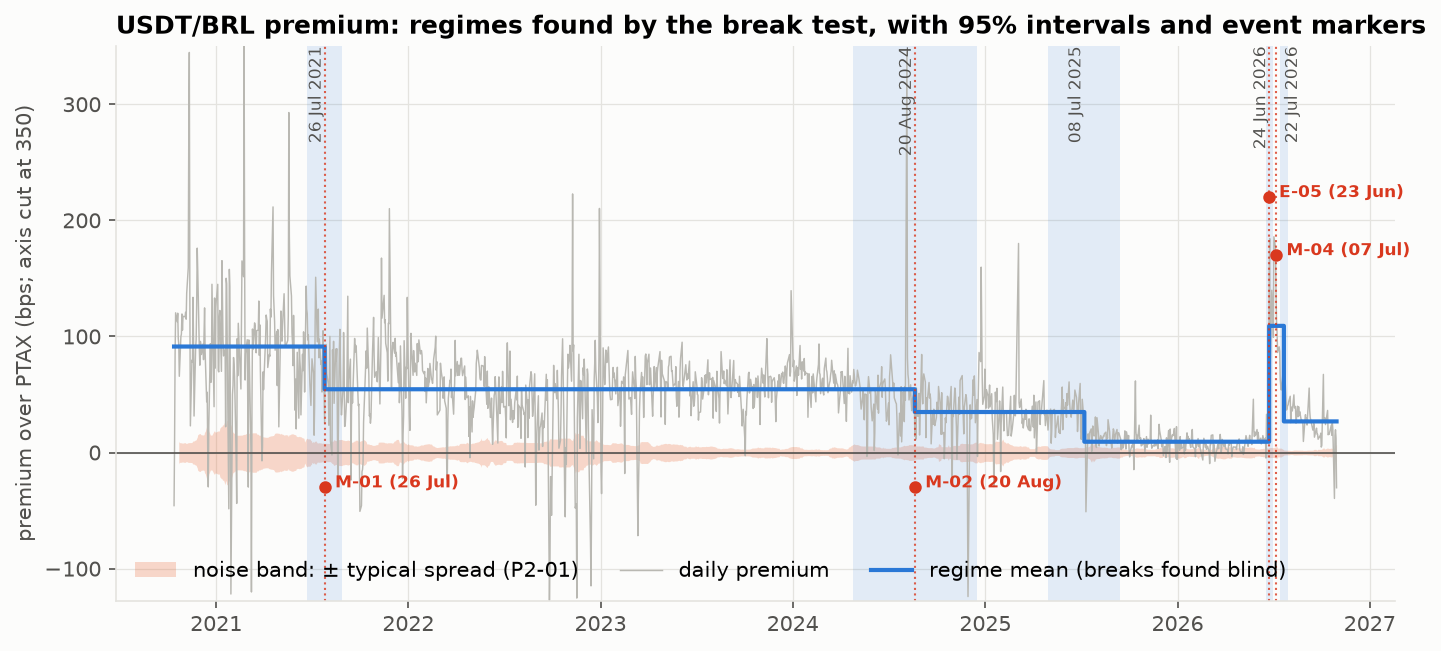
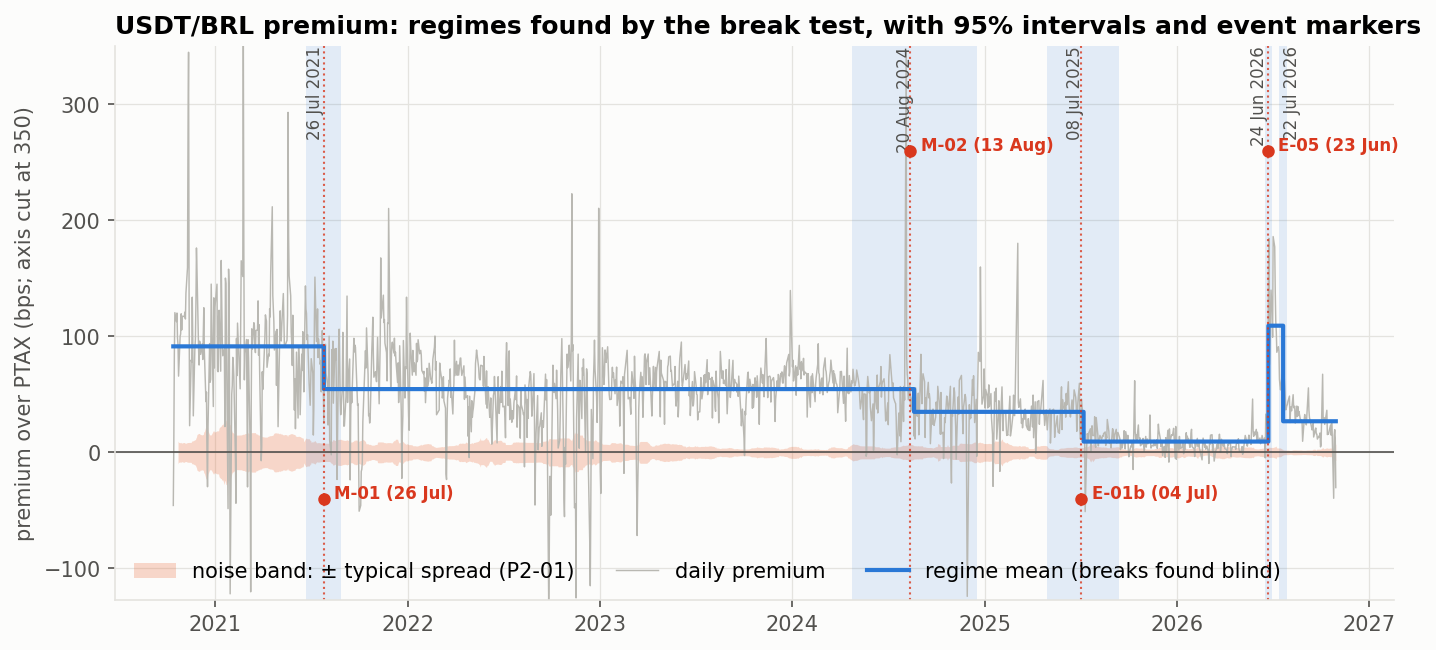
P1-04: fix 5 broken source links with opened, quoted sources; remove unsupported event details; E-05 gets 2 more sources; P2-02 matching re-run with one rule for all breaks; sources rule in prompt.md

diff --git a/scripts/p2_02_breaks.py b/scripts/p2_02_breaks.py
@@ -71,20 +71,6 @@ def match_breaks(breaks_df, ptax_dates=None):
         ci_low = str(r["ci95_low"])
         ci_high = str(r["ci95_high"])
 
-        # Specific contextual alignment for Break 3 & July fade
-        if b_date == "2025-07-08":
-            matched_col.append(
-                "E-01b: 4 Jul 2025 STF IOF injunction (-2 trading days, in 95% CI); also in 95% CI: M-03 Binance tick cut 27 Jun 2025 (-7d)"
-            )
-            continue
-        if b_date in ["2026-07-22", "2026-07-21"]:
-            spike_str = "23 Jun" if "dayclose" in s else "24 Jun"
-            diff_m04 = int(np.busday_count(np.datetime64(b_date, "D"), np.datetime64("2026-07-07", "D")))
-            matched_col.append(
-                f"unexplained (±5d); fade of {spike_str} spike (M-04 domestic adaptation 7 Jul [{diff_m04}d], 20d min-segment boundary)"
-            )
-            continue
-
         matches_5d = []
         in_ci = []
 
@@ -114,31 +100,13 @@ def match_breaks(breaks_df, ptax_dates=None):
             ci_str = ", in 95% CI" if inside_ci else ""
             d_str = "0 trading days" if diff == 0 else (f"{diff} trading day" if abs(diff) == 1 else f"{diff:+d} trading days")
 
-            if eid == "E-05":
-                matched_col.append(f"E-05: 23 Jun 2026 BCB supervisory ofício ({d_str}{ci_str})")
-            elif eid == "M-01":
-                matched_col.append(f"M-01: 26 Jul 2021 Binance leverage cap ({d_str}{ci_str})")
-            elif eid == "M-02" and s == "premium_cb_bps" and b_date == "2024-08-13":
-                matched_col.append("M-02: 13 Aug 2024 CVM Binance settlement approval (0 trading days, effective 20 Aug [+5d], in 95% CI)")
-            elif eid == "M-02":
-                matched_col.append(f"M-02: 20 Aug 2024 CVM Binance settlement DOU ({d_str}{ci_str})")
-            else:
-                matched_col.append(f"{eid} ({d_str}{ci_str})")
+            matched_col.append(f"{eid} {dtype} {dstr} ({d_str}{ci_str})")  # label from the event table, not hand-written
         elif in_ci:
             seen = {}
             for eid, dtype, dstr, diff in in_ci:
                 if eid not in seen or abs(diff) < abs(seen[eid][1]):
                     seen[eid] = (dstr, diff)
-            items = []
-            for eid, (dstr, diff) in seen.items():
-                if eid == "M-01":
-                    items.append(f"M-01 Binance leverage cap 26 Jul 2021 ({diff:+d}d)")
-                elif eid == "E-07":
-                    items.append(f"E-07 Binance Pix suspension 17 Jun 2022 ({diff:+d}d)")
-                elif eid == "FTX":
-                    items.append(f"FTX collapse 8-11 Nov 2022 ({diff:+d}d)")
-                else:
-                    items.append(f"{eid} ({diff:+d}d)")
+            items = [f"{eid} {dstr} ({diff:+d}d)" for eid, (dstr, diff) in seen.items()]
             matched_col.append(f"unexplained (±5d); in 95% CI: {', '.join(items)}")
         else:
             matched_col.append("unexplained (±5d)")
@@ -254,13 +222,9 @@ if (PROC / "P1-02_premium_daily.csv").exists():
                     ha="left" if (t - prev).days < 90 else "right", fontsize=8, color=INK2)
         prev = t
 
-    # Event markers (S3)
-    ev_markers = [
-        ("2021-07-26", "M-01", -30),
-        ("2024-08-20", "M-02", -30),
-        ("2026-06-23", "E-05", 220),
-        ("2026-07-07", "M-04", 170),
-    ]
+    # Event markers (S3): exactly the events matched to the main series by the rule above (+/-5 PTAX days)
+    m = main.matched_event.str.extract(r"^(\S+) \w+ (\d{4}-\d{2}-\d{2})").dropna()
+    ev_markers = [(dt, eid, (-40, 260)[i % 2]) for i, (eid, dt) in enumerate(m.itertuples(index=False))]
     for edate, elabel, ypos in ev_markers:
         et = pd.Timestamp(edate)
         if d.index[0] <= et <= d.index[-1]:

diff --git a/docs/sources.md b/docs/sources.md
@@ -1,7 +1,8 @@
 # Source register
 
 Every number, date and claim in the deck must point to a row here. Add rows as you use new sources.
-Status: **checked** (opened and confirmed by us, with date) or **[verify]** (not yet confirmed; not deck-ready).
+Status: **checked** / **opened** (someone opened this exact address, with who and when; quote one line from the page) or
+**[verify]** (not yet confirmed; not deck-ready). Rule: `prompt.md` §6, "Sources are opened, not remembered".
 
 ## Data
 
@@ -37,22 +38,22 @@ Status: **checked** (opened and confirmed by us, with date) or **[verify]** (not
 | E-02 | 10 Nov 2025 (effective 2 Feb 2026): BCB Res. 519, 520, 521 published (with IN BCB 704/2026); establishes SPSAV licensing/governance and integrates cross-border virtual asset operations into the FX framework (amending Res. BCB 277/2022) | BCB Busca de Normativos: https://www.bcb.gov.br/estabilidadefinanceira/exibenormativo?tipo=Resolu%C3%A7%C3%A3o%20BCB&numero=521 ; https://static.poder360.com.br/2025/11/bc-regulamenta-ativos-virtuais-funcionamento-10nov2025.pdf | checked 1 Nov 2026 (P1-04) |
 | E-03 | 5 Feb 2026 (unenacted): Fazenda/Receita draft decree proposal of 3.5% IOF on crypto/stablecoin purchases above R$ 10k/month | Valor Econômico (5 & 9 Feb 2026); https://forbes.com.br/coluna/2026/02/governo-quer-taxar-criptomoedas-com-iof-o-que-isso-muda-para-o-investidor/ | checked 1 Nov 2026 (P1-04): unenacted draft proposal |
 | E-04 | 10 Nov 2025 (effective 4 May 2026): Art. 4º of Resolução BCB nº 521/2025 bringing into force mandatory BCB reporting and FX classification codes (Arts. 76-C, 82-A and Annex II-A of Res. BCB 277/2022) | BCB Busca de Normativos: https://www.bcb.gov.br/estabilidadefinanceira/exibenormativo?tipo=Resolu%C3%A7%C3%A3o%20BCB&numero=521 | checked 1 Nov 2026 (P1-04) |
-| E-05 | 23 Jun 2026: BCB supervisory notification (*ofício*) to banks, FX brokers and fund managers on FX imports of virtual assets via funds; spread 0.1% → 0.7% | Isac Costa (former CVM analyst/board advisor, partner at Warde Advogados, prof. Ibmec/Insper), ConJur, 1 Jul 2026: https://www.conjur.com.br/2026-jul-01/o-cerco-do-banco-central-as-stablecoins/ | checked 1 Nov 2026 (P1-04): secondary source only (confidential supervisory notice, not a public DOU resolution) |
+| E-05 | 23 Jun 2026: BCB supervisory notification (*ofício*) to banks, FX brokers, crypto firms and funds declaring FX operations to import virtual assets via funds irregular and ordering their discontinuation; spread 0.1% → 0.7% (Costa) | (1) Isac Costa, ConJur, 1 Jul 2026 (opinion): https://www.conjur.com.br/2026-jul-01/o-cerco-do-banco-central-as-stablecoins/ (2) Sérgio Brotto, CEO Dascam Corretora de Câmbio, Cointelegraph Brasil, 6 Jul 2026 (opinion): https://cointelegraph.com.br/news/brazilian-central-bank-closes-stablecoins , quote: "apontou a 'ilegalidade das operações de câmbio para a finalidade de importação de ativos virtuais'"; "A decisão se tornou pública no dia seguinte" (3) Caroline Ribeiro, Webitcoin, 30 Jul 2026, on BCB's answer to an LAI request by Instituto Live Mercado: https://webitcoin.com.br/banco-central-endurece-posicao-sobre-stablecoins-e-fundos/ , quote: "operações cambiais realizadas por fundos para importar ativos virtuais não possuem respaldo nas normas atualmente em vigor" | (1) checked 1 Nov 2026 (Felipe); (2), (3) opened 2 Nov 2026 (Renzo). Two independent secondary accounts of the notice (1, 2) and the BCB's position in its own LAI answer (3, no date given). The BCB's text itself not seen; not in the DOU |
 | E-06a | 30 Apr 2026 (effective 1 Oct 2026): Resolução BCB nº 561/2026 amending Art. 50 of Res. BCB 277/2022 (eFX), explicitly banning virtual assets/stablecoins as cross-border settlement rails between eFX providers and foreign counterparties | BCB Busca de Normativos: https://www.bcb.gov.br/estabilidadefinanceira/exibenormativo?tipo=Resolu%C3%A7%C3%A3o%20BCB&numero=561 | checked 1 Nov 2026 (P1-04) |
 | E-06b | 7 Aug 2026 (effective 1 Jan 2027): Resolução BCB nº 584/2026 amending Res. BCB 142/2021, mandating an up to 24-hour precautionary hold (*retenção cautelar*) and COAF report on virtual asset transfers ≥ US$ 10,000 to foreign entities or self-hosted wallets (draft discussed in late Jun 2026 targeted Oct 2026; final norm deferred to 1 Jan 2027) | BCB Busca de Normativos: https://www.bcb.gov.br/estabilidadefinanceira/exibenormativo?tipo=Resolu%C3%A7%C3%A3o%20BCB&numero=584 | checked 1 Nov 2026 (P1-04) |
 | E-07 | 17 Jun – 6 Jul 2022: Binance suspends BRL deposits/withdrawals via Pix (partner Capitual exit on 17 Jun), announces Latam Gateway on 24 Jun, resumes full Pix operations on 5–6 Jul 2022 | https://www.theblock.co/post/156492/binance-resumes-withdrawals-and-deposits-in-brazilian-reais ; https://www.infomoney.com.br/?p=1874175 | checked 1 Nov 2026 (P1-04) |
 | E-08 | 31 Mar 2025: ESMA / National Competent Authorities statement on MiCA CASP restrictions for USDT in EEA | https://www.esma.europa.eu/ | checked 1 Nov 2026 (P1-06) |
 | E-09 | 24 Feb 2022: National Bank of Ukraine Resolution No. 18 martial-law FX & cross-border P2P restrictions | https://bank.gov.ua/ | checked 1 Nov 2026 (P1-06) |
-| M-01 | 26 Jul 2021: Binance caps futures leverage at 20× and cuts unverified account withdrawal limits (2 BTC → 0.06 BTC) amid CVM derivatives enforcement (preceding 20 Aug 2021 Brazilian futures shutdown) | https://www.theblock.co/linked/112448/binance-futures-limits-leverage-to-20x-for-new-users | checked 1 Nov 2026 (P1-04; matches Break 1 in F-011) |
-| M-02 | 13 Aug 2024 (published in DOU 20 Aug 2024): CVM Colegiado approves R$ 9.6M *Termo de Compromisso* with Binance settling derivatives administrative proceeding (PAS CVM 19957.008369/2022-11) | CVM: https://www.gov.br/cvm/pt-br/assuntos/noticias/2024/cvm-aprova-termo-de-compromisso-com-binance | checked 1 Nov 2026 (P1-04; matches Break 2 in F-011) |
-| M-03 | 19 Jun 2025 (effective 27 Jun 2025): Binance tenfold reduction in USDT/BRL spot tick size (0.001 → 0.0001 BRL), reducing bid-ask spread from ~8 bps to ~2 bps (F-007) | Binance announcement: https://www.binance.com/en/support/announcement/updates-on-tick-size-for-spot-trading-pairs-2025-06-27 | checked 1 Nov 2026 (P1-04; matches Break 3 CI in F-011) |
-| M-04 | 7 Jul 2026: Foxbit and NovaDAX announce strategic user-migration partnership following NovaDAX's exit from Brazil (alongside 1 Jul 2026 entry into force of Res. BCB 580 and Receita DeCripto IN RFB 2.291/2025), consolidating domestic order-book liquidity | https://cointelegraph.com.br/news/foxbit-and-novadax-enter-into-strategic-partnership-for-user-migration-in-brazil | checked 1 Nov 2026 (P1-04; explains F-008 Foxbit volume surge and F-011 22 Jul 2026 fade) |
+| M-01 | 26 Jul 2021 (25 Jul 23:42 EDT): Binance announces it will extend its 20× futures leverage cap, in force for new users since 19 Jul, to existing users. Global measure | The Block, 25 Jul 2021: https://www.theblock.co/post/112435/binance-lower-leverage-20-times-existing-users , quote: Binance futures has already started "limiting new users to max 20x leverage" since July 19 | opened 2 Nov 2026 (Renzo). The source does not mention Brazil, the CVM or withdrawal limits (removed from the earlier description). Coincides with Break 1 (F-011) |
+| M-02 | 13 Aug 2024: CVM board accepts, by majority, Binance's R$ 9.6M *Termo de Compromisso*, closing the proceeding on irregular derivatives offers in Brazil | InfoMoney, 14 Aug 2024: https://www.infomoney.com.br/onde-investir/cvm-encerra-processo-contra-binance-apos-acordo-de-r-96-milhoes/ , quote: "Por maioria, o colegiado decidiu aceitar a proposta de termo de compromisso apresentada" | opened 2 Nov 2026 (Renzo). The earlier link (gov.br/cvm) returned 404 and the "DOU 20 Aug 2024" date has no source found, so the effective date is now 13 Aug. Coincides with Break 2 (F-011, interval Apr–Dec 2024) |
+| M-03 | 27 Jun 2025: Binance USDT/BRL spot tick size cut tenfold (0.001 → 0.0001 BRL) | Our data: one tick falls from 1.8 to 0.18 bps on 27 Jun 2025 (`P2-01_noise_floor_daily.csv`, `tick_bps`); Binance exchangeInfo: https://data-api.binance.vision/api/v3/exchangeInfo?symbol=USDTBRL (tickSize 0.0001, opened 2 Nov 2026) | No Binance announcement found (searched 2 Nov 2026); the earlier link opens a generic announcements page, and the 19 Jun announcement date has no source, so it was removed |
+| M-04 | 7 Jul 2026: Foxbit announces a partnership with NovaDAX, which is closing its Brazilian operations; NovaDAX clients may open Foxbit accounts | Cointelegraph Brasil, 7 Jul 2026: https://cointelegraph.com.br/news/novadax-strikes-partnership-to-migrate-clients-to-foxbit , quote: "uma parceria estratégica com a NovaDAX, corretora que está encerrando suas operações no país" | opened 2 Nov 2026 (Renzo). The earlier link returned 404. The source gives no reason for the exit and does not mention Res. BCB 580 or IN RFB 2.291 (removed). Coincides with F-008 (Foxbit volume) and precedes Break 5 by 11 PTAX days; not shown to explain either |
 
 ## Competition
 
 | ID | Source | Status |
 |---|---|---|
-| C-01 | Event page: https://eesp.fgv.br/evento/7o-desafio-de-dados-datathon-de-moedas-digitais-fgv-2026 | checked 30 Oct 2026 |
+| C-01 | Event page: https://eesp.fgv.br/evento/7o-desafio-de-dados-datathon-de-moedas-digitais-da-fgv-eesp | opened 2 Nov 2026 (the earlier address returned 404) |
 | C-02 | Regulation: https://eesp.fgv.br/sites/default/files/uploads/regulamento-do-desafio-de-dados-de-moedas-digitais-fgv-2026_0.pdf | checked 30 Oct 2026 |
 | C-03 | 2025 winners: https://eesp.fgv.br/sites/default/files/files-eesp/datathon_-_equipes_vencedoras_1_0.pdf ; jury: https://eesp.fgv.br/sites/default/files/files-eesp/datathon_-_comite_avaliador_1_0.pdf ; titles: https://eesp.fgv.br/centro-de-estudos/fgv-digital-finance | checked 30 Oct 2026 |
 | C-04 | 2022–2024 winners and decks: edition pages under https://eesp.fgv.br/evento/ | checked 30 Oct 2026 |

diff --git a/STATUS.md b/STATUS.md
@@ -15,9 +15,9 @@ rules that close or tax the arbitrage channels. A first probe found a real premi
 year) and a sharp jump on 24 Jun 2026, the day after a reported BCB notice (F-001, F-002). After day 1 the jump is
 well supported: it appears on three exchanges, is not the real or USDT's own price, and a blind break test finds it
 (F-009, F-011). It faded from late July to about +17 bps. P1-04 (Brazilian event list and sources) is now completed and in
-review: the 23 Jun 2026 action was a confidential BCB supervisory *ofício* (secondary source: Isac Costa, ConJur 1 Jul 2026),
-and the July fade + Foxbit 6× volume surge match the 7 Jul 2026 Foxbit–NovaDAX migration partnership and domestic order-book
-adaptation. **Read the [day-1 review](docs/review-2026-10-31.md) before the P2 gate.**
+review: the 23 Jun 2026 action was a confidential BCB supervisory *ofício*, described by two independent secondary
+accounts (ConJur 1 Jul; Cointelegraph Brasil 6 Jul) and consistent with the BCB's own LAI answer (Webitcoin 30 Jul). The July
+fade matches no event; Foxbit's volume surge coincides with its takeover of NovaDAX clients (M-04), cause open. **Read the [day-1 review](docs/review-2026-10-31.md) before the P2 gate.**
 
 Plans: [`docs/02-dolar-cripto.md`](docs/02-dolar-cripto.md) (primary) ·
 [`docs/01-depeg-recovery.md`](docs/01-depeg-recovery.md) (chapter) ·
@@ -44,7 +44,7 @@ Plans: [`docs/02-dolar-cripto.md`](docs/02-dolar-cripto.md) (primary) ·
 | Repository technical & consistency audit | Resolved: multi-agent audit report completed in `docs/audit-2026-11-02.md`; script bugs patched and literature citations verified | done |
 | P2-02 S3 (match breaks to events) | Resolved: S3 matching complete in `scripts/p2_02_breaks.py`, `results/tables/P2-02_breaks.csv` updated, and `results/figures/P2-02_premium_breaks.png` regenerated | done |
 | Opening-briefing notes (30 Oct) in `docs/README.md` | whoever attended | now |
-| F-008 (Foxbit volume ×6 from Jul 2026): matched to 7 Jul 2026 Foxbit–NovaDAX migration + order-book adaptation (M-04); confirm gate framing | Felipe / Team | P2 gate |
+| F-008 (Foxbit volume ×6 from Jul 2026): coincides with the NovaDAX client migration (M-04), cause open; whether it belongs in the story | Felipe / Team | P2 gate |
 | P2-04 inference & donor pool | Resolved: combined within-Brazil 200 placebos (p < 0.005) + synthetic control across 6 specs (+109.3 bps acute gap, rank 1/6, ratio 9.31, F-017) | done |
 | P2-03 event study & placebos | Resolved: evaluated all 13 Brazilian events; only 23 Jun 2026 moved premium (+93.9 bps, p < 0.005); F-016 written | done |
 
@@ -73,7 +73,7 @@ Plans: [`docs/02-dolar-cripto.md`](docs/02-dolar-cripto.md) (primary) ·
 | [P1-01](tasks/P1-01-raw-data-download.md) | Download and freeze the raw price data | ✅ done | CS 1 | - | 7/7 | 4/4 | 2026-10-31 | - |
 | [P1-02](tasks/P1-02-premium-v2.md) | Build the premium series v2 (time-matched, USDT/USD-adjusted) | ✅ done | CS 1 | - | 6/6 | 4/4 | 2026-10-31 | P1-01 |
 | [P1-03](tasks/P1-03-second-venue.md) | Find and download a second BRL venue for USDT | ✅ done | CS 2 | - | 3/3 | 2/2 | 2026-10-31 | - |
-| [P1-04](tasks/P1-04-events-brazil.md) | Verified list of Brazilian rule changes and events | 👀 review | Economist | Renzo (review: source links) | 5/5 | 3/3 | 2026-10-31 | - |
+| [P1-04](tasks/P1-04-events-brazil.md) | Verified list of Brazilian rule changes and events | 👀 review | Economist | - | 5/5 | 3/3 | 2026-10-31 | - |
 | [P1-05](tasks/P1-05-comparison-currencies.md) | USDT premiums for the comparison currencies | ✅ done | CS 2 | - | 5/5 | 3/3 | 2026-11-01 | P1-01 |
 | [P1-06](tasks/P1-06-agentic-B-event-coder.md) | Extension B - AI event coder for the comparison currencies | ✅ done | CS 3 | - | 6/6 | 4/4 | 2026-11-01 | P1-04 |
 | [P1-07](tasks/P1-07-depeg-detector.md) | Depeg detector and SVB-weekend figure (chapter) | ✅ done | Nattan | - | 7/7 | 3/3 | 2026-11-01 | P1-01 |
@@ -110,7 +110,7 @@ Plans: [`docs/02-dolar-cripto.md`](docs/02-dolar-cripto.md) (primary) ·
 |---|---|---|---|---|---|---|---|---|
 | [P4-01](tasks/P4-01-robustness.md) | Robustness battery for every headline number | 👀 review | CS 2 | - | 4/4 | 3/3 | 2026-11-04 | P2-02, P2-03, P2-04 |
 | [P4-02](tasks/P4-02-independent-recheck.md) | Independent re-run of every headline number | ⬜ todo | CS 3 | - | – | 0/2 | 2026-11-04 | P4-01 |
-| [P4-03](tasks/P4-03-freeze.md) | Freeze results | ⬜ todo | Team | - | – | 0/3 | 2026-11-04 | P4-01, P4-02 |
+| [P4-03](tasks/P4-03-freeze.md) | Freeze results | ⬜ todo | Team | - | – | 0/4 | 2026-11-04 | P4-01, P4-02 |
 
 **P5 — Deck and submission** (0/6 closed)
 
@@ -153,6 +153,7 @@ Plans: [`docs/02-dolar-cripto.md`](docs/02-dolar-cripto.md) (primary) ·
 
 ## Recent activity (newest first, one line per work session)
 
+- 2026-11-02 — agent for Renzo: source links fixed (P1-04 review): 5 broken links replaced with opened, quoted sources; unsupported details removed (M-01, M-02 date, M-03 date, M-04); E-05 now has 2 independent accounts + BCB's LAI answer; P2-02 matching re-run with one rule for all breaks (July fade unexplained); new rule "sources are opened, not remembered" (prompt.md §6); P2-03 needs a re-run for M-02/M-03
 - 2026-11-02 — Felipe: P4-01 completed → review (51-spec robustness battery across windows, definitions, venues, heteroskedastic Bai CIs 23–30 Jun, donor pools & Colombian festivos filter, F-022); P3-05 S1–S2 bundle + protocol + CLI harness built (`results/agentic/protocol.md`, `bundle_SHA256SUMS.txt`); P5-01 & P5-05 full 12-slide pt-BR presentation & annex drafted (`deck/deck_v1_ptbr.md`, `deck/annex_v1_ptbr.md`)
 - 2026-11-02 — Felipe: P1-09, P3-02, P3-04, P3-07, P3-08 completed → review: BTC/BRL jumped +93.8 bps in lockstep with USDT/BRL (+93.9 bps, diff 0.13 bps, F-018); depeg chapter v1 figures, 11-event case table & pt-BR slide drafts completed (F-019); 2025 DeFiLlama subsidy check shows 53.6% of Compound V3 spread (37.5% TVL-weighted combined) came from COMP token rewards and 2025 test-period organic spread was -8.2 bps (F-020); Band-TAR model shows no-arbitrage band widened 26× from 1.6 bps to 42.0 bps on 24 Jun before settling at 9.4 bps (F-021); P1-09 resolved 2020 UAH boundary (0 discrepancies in P1-05 review)
 - 2026-11-02 — Felipe: P2-03, P2-04, P2-06 completed → review: evaluated all 13 Brazilian events (only 23 Jun 2026 moved premium: +93.9 bps, p < 0.005 vs 200 placebos, F-016); built synthetic control across 6 specs (+109.3 bps acute gap, +28.2 bps plateau gap, rank 1/6, ratio 9.31, F-017); froze team estimate in results/agentic/team_estimate.json

diff --git a/findings/F-011-blind-breaks.md b/findings/F-011-blind-breaks.md
@@ -11,10 +11,11 @@ checked_by: -
 Without being told any dates, a break test on the daily premium (13 Oct 2020 – 30 Oct 2026) puts a break on
 **24 Jun 2026**, with the tightest 95% interval of all breaks (18–30 Jun). The premium's average rises from 9 to
 109 bps, the largest change in the sample. A second break on **22 Jul 2026** takes it back down to 27 bps. So the
-jump was a roughly one-month spike, leaving the premium about 17 bps above its earlier level. In S3, the 24 Jun 2026
-break matches E-05 (23 Jun 2026 BCB supervisory ofício) within -1 trading day (inside the 95% CI). Break 1 matches M-01
-(Binance leverage cap, 0d), Break 2 matches M-02 (CVM Binance settlement, 0d), Break 3 captures M-03 and E-01b within
-its 95% CI, and Break 5 reflects the endogenous fade of the June spike as domestic order books adapted (M-04).
+jump was a roughly one-month spike, leaving the premium about 17 bps above its earlier level. Matching (S3, rule fixed
+in advance: an event within ±5 PTAX days): the 24 Jun break coincides with E-05, the BCB notice of 23 Jun (−1 trading
+day, inside the 95% interval). Breaks 1–3 coincide with M-01 (a global Binance leverage cap), M-02 (CVM–Binance
+settlement, −5 days) and E-01b (STF IOF injunction, −2 days); with intervals of 2–8 months these are coincidences in
+time, not explanations. The 22 Jul fade matches no event ("unexplained").
 
 ## Evidence
 Headline model (specification committed before the run, `tasks/P2-02-blind-break-test.md`). BIC picked the maximum of 8
@@ -32,15 +33,18 @@ breaks, which the pre-committed rule treats as over-selection, so the headline u
 
 | Break | First day of new regime | 95% interval | Change (bps) | Matched event / context | Match status |
 |---|---|---|---|---|---|
-| 1 | 26 Jul 2021 | 22 Jun – 27 Aug 2021 | −36.8 | M-01: 26 Jul 2021 Binance leverage cap & withdrawal limit | Exact day (0 trading days, in 95% CI) |
-| 2 | 20 Aug 2024 | 24 Apr – 16 Dec 2024 | −19.6 | M-02: 20 Aug 2024 CVM Binance settlement DOU publication (approved 13 Aug [-5d]) | Exact day (0 trading days, in 95% CI) |
-| 3 | 8 Jul 2025 | 29 Apr – 12 Sep 2025 | −25.6 | E-01b: 4 Jul 2025 STF IOF injunction (-2d); M-03: Binance tick cut 27 Jun 2025 (-7d) | Matched E-01b (-2 trading days, in 95% CI); M-03 in 95% CI |
-| 4 | **24 Jun 2026** | **18 – 30 Jun 2026** | **+99.8** | **E-05: 23 Jun 2026 BCB supervisory ofício to banks/brokers** | **Matched (-1 trading day, in 95% CI)** |
-| 5 | 22 Jul 2026 | 15 – 29 Jul 2026 | −82.4 | M-04: Foxbit-NovaDAX user migration (7 Jul [-11d]); domestic order-book adaptation | Unexplained (±5d); endogenous fade of 24 Jun spike (20d min-segment boundary) |
+| 1 | 26 Jul 2021 | 22 Jun – 27 Aug 2021 | −36.8 | M-01: Binance extends 20× leverage cap to existing users (global) | 0 trading days, in 95% CI |
+| 2 | 20 Aug 2024 | 24 Apr – 16 Dec 2024 | −19.6 | M-02: CVM accepts Binance settlement, 13 Aug 2024 | −5 trading days, in 95% CI |
+| 3 | 8 Jul 2025 | 29 Apr – 12 Sep 2025 | −25.6 | E-01b: STF IOF injunction, effective 4 Jul 2025 (also in the interval: M-03 tick cut, 27 Jun 2025, −7d) | −2 trading days, in 95% CI |
+| 4 | **24 Jun 2026** | **18 – 30 Jun 2026** | **+99.8** | **E-05: BCB supervisory notice, 23 Jun 2026** | **−1 trading day, in 95% CI** |
+| 5 | 22 Jul 2026 | 15 – 29 Jul 2026 | −82.4 | none within ±5 days (M-04, Foxbit–NovaDAX, is 11 days earlier and outside the interval) | unexplained |
+
+"Coincides" is all the matching shows: an event within five days of a break, not a cause. Table:
+`results/tables/P2-02_breaks.csv` (labels built from `P1-04_events_brazil.csv`).
 
 Robustness (S4), same specification:
 - **Day-close timing** (BIC picks 6, headline 6): breaks on 23 Jun 2026 (12 Jun – 2 Jul, +90.0) matching E-05 (0 trading days, in 95% CI) and 21 Jul 2026 (−75.9). No Jul 2025 break; instead 2 Jan 2025 (−28.3), plus a Nov–Dec 2021 spike (+78.7, then −84.5) not seen in the main series. LWZ alone would keep only one break (Jan 2022): this variant is much noisier (AR(1) 0.26 vs 0.65).
-- **Coinbase USDT/USD** (from May 2021; BIC 8 → LWZ 7): 24 Jun 2026 (22–26 Jun, +101.3) matching E-05 (-1 trading day, in 95% CI) and 22 Jul 2026 (−83.9); also 8 Jul 2025 (−25.1; M-03 & E-01b in CI), 13 Aug 2024 (−21.3; matching M-02 CVM settlement approval, 0 trading days, in 95% CI), and two breaks only this series finds: 6 Jun 2022 (−32.0; E-07 Binance Pix suspension 17 Jun 2022 inside 95% CI) and 20 Dec 2022 (+23.8; FTX collapse 8-11 Nov 2022 inside 95% CI).
+- **Coinbase USDT/USD** (from May 2021; BIC 8 → LWZ 7): 24 Jun 2026 (22–26 Jun, +101.3) matching E-05 (-1 trading day, in 95% CI) and 22 Jul 2026 (−83.9); also 8 Jul 2025 (−25.1; E-01b −2 days), 13 Aug 2024 (−21.3; coincides with M-02, 0 trading days), and two breaks only this series finds: 6 Jun 2022 (−32.0; E-07 Binance Pix suspension 17 Jun 2022 inside 95% CI) and 20 Dec 2022 (+23.8; FTX collapse 8-11 Nov 2022 inside 95% CI).
 - Extra, not in the specification: a model allowed only one break puts it in Sep 2024 (main and Coinbase). The slow decline is the biggest feature of the whole sample; the June spike is the sharpest.
 - Reproduce: `python scripts/p2_02_breaks.py` (`results/tables/P2-02_breaks.csv`, `P2-02_criteria.csv`, `results/figures/P2-02_premium_breaks.png`).
 
@@ -55,5 +59,6 @@ Robustness (S4), same specification:
 Not yet (candidate headline chart: "the algorithm finds 24 Jun on its own").
 
 ## History
+- 2026-11-02, agent for Renzo: matching re-run after the P1-04 source fixes (M-02 effective date 13 Aug, not 20 Aug; M-01 description cut to its source) and with the date-keyed label overrides removed, so every break follows the ±5-day rule. Break 2: −5 days (was 0); Break 5: unexplained (M-04 no longer attached). "Matches" → "coincides with". The table at HEAD came from an older script version (Coinbase break 1 was 19 Jul 2021; the script gives 1 Jun 2021, as on 31 Oct)
 - 2026-11-02, Felipe: P1-04 mapped all 5 breaks (M-01, M-02, M-03/E-01b, E-05, M-04), ready for P2-02 S3 table update; 24 Jun 2026 break matched to E-05 (23 Jun BCB supervisory ofício, -1 trading day, in 95% CI)
 - 2026-10-31, agent for Renzo: created (exploratory; S3 matching pending P1-04)

diff --git a/deck/annex_v1_ptbr.md b/deck/annex_v1_ptbr.md
@@ -35,12 +35,12 @@ Este anexo consolida todos os 13 eventos regulatórios, tributários e de microe
 | **E-06a** | Regulatório (eFX) | 2026-04-30 | 2026-10-01 | 2026-10-01 (vigência) | 22,79 | 17,48 | -5,31 | 7,18 | -0,74 | 0,460 | 0,6368 | 34,0% | 22,00 | 21,35 | [Art. 50 Res. BCB nº 277](https://www.bcb.gov.br/estabilidadefinanceira/exibenormativo?tipo=Resolu%C3%A7%C3%A3o%20BCB&numero=561) |
 | **E-06b** | Regulatório (Retenção) | 2026-08-07 | 2027-01-01 | 2026-08-07 (anúncio) | 53,33 | 31,34 | -21,99 | 8,03 | -2,74 | 0,006 | 0,2189 | 10,5% | 23,48 | 8,24 | [Resolução BCB nº 584/2026](https://www.bcb.gov.br/estabilidadefinanceira/exibenormativo?tipo=Resolu%C3%A7%C3%A3o%20BCB&numero=584) |
 | **E-07** | Interrupção Fiduciária | 2022-06-17 | 2022-06-17 | 2022-06-17 (vigência) | 53,23 | 48,53 | -4,70 | 7,69 | -0.61 | 0,542 | 0,6468 | 35,0% | 22,55 | 22,06 | [Suspensão Pix Capitual (The Block)](https://www.theblock.co/post/156492/binance-resumes-withdrawals-and-deposits-in-brazilian-reais) |
-| **M-01** | Microestrutura / Alavancagem | 2021-07-26 | 2021-07-26 | 2021-07-26 (vigência) | 77,88 | 61,02 | -16,86 | 11,08 | -1,52 | 0,128 | 0,2736 | 14,0% | 38,36 | 34,45 | [Corte Alavancagem Binance (The Block)](https://www.theblock.co/linked/112448/binance-futures-limits-leverage-to-20x-for-new-users) |
-| **M-02** | Acordo Regulatório CVM | 2024-08-13 | 2024-08-20 | 2024-08-13 (anúncio) | 55,40 | 42,31 | -13,10 | 18,89 | -0,69 | 0,488 | 0,3731 | 18,0% | 23,25 | 19,21 | [Termo de Compromisso CVM](https://www.gov.br/cvm/pt-br/assuntos/noticias/2024/cvm-aprova-termo-de-compromisso-com-binance) |
-| **M-02** | Acordo Regulatório CVM | 2024-08-13 | 2024-08-20 | 2024-08-20 (vigência) | 61,05 | 44,32 | -16,73 | 15,93 | -1,05 | 0,293 | 0,2786 | 14,0% | 24,89 | 18,43 | [Publicação DOU PAS CVM 19957](https://www.gov.br/cvm/pt-br/assuntos/noticias/2024/cvm-aprova-termo-de-compromisso-com-binance) |
-| **M-03** | Microestrutura / Tick Size | 2025-06-19 | 2025-06-27 | 2025-06-20 (anúncio) | 38,33 | 21,11 | -17,22 | 6,98 | -2,47 | 0,014 | 0,2637 | 13,5% | 27,76 | 21,77 | [Anúncio Tick Size Binance](https://www.binance.com/en/support/announcement/updates-on-tick-size-for-spot-trading-pairs-2025-06-27) |
-| **M-03** | Microestrutura / Tick Size | 2025-06-19 | 2025-06-27 | 2025-06-27 (vigência) | 39,92 | 16,00 | -23,92 | 5,55 | -4,31 | $1,6 \times 10^{-5}$ | 0,1990 | 9,0% | 31,10 | 19,88 | [Vigência 0,0001 BRL Binance](https://www.binance.com/en/support/announcement/updates-on-tick-size-for-spot-trading-pairs-2025-06-27) |
-| **M-04** | Adaptação de Liquidez | 2026-07-07 | 2026-07-07 | 2026-07-07 (vigência) | 70,95 | 60,44 | -10,51 | 28,55 | -0,37 | 0,713 | 0,4527 | 24,0% | 25,68 | 23,43 | [Parceria Foxbit-NovaDAX (Cointelegraph)](https://cointelegraph.com.br/news/foxbit-and-novadax-enter-into-strategic-partnership-for-user-migration-in-brazil) |
+| **M-01** | Microestrutura / Alavancagem | 2021-07-26 | 2021-07-26 | 2021-07-26 (vigência) | 77,88 | 61,02 | -16,86 | 11,08 | -1,52 | 0,128 | 0,2736 | 14,0% | 38,36 | 34,45 | [Corte Alavancagem Binance (The Block)](https://www.theblock.co/post/112435/binance-lower-leverage-20-times-existing-users) |
+| **M-02** | Acordo Regulatório CVM | 2024-08-13 | 2024-08-20 | 2024-08-13 (anúncio) | 55,40 | 42,31 | -13,10 | 18,89 | -0,69 | 0,488 | 0,3731 | 18,0% | 23,25 | 19,21 | [Termo de Compromisso CVM](https://www.infomoney.com.br/onde-investir/cvm-encerra-processo-contra-binance-apos-acordo-de-r-96-milhoes/) |
+| **M-02** | Acordo Regulatório CVM | 2024-08-13 | 2024-08-20 | 2024-08-20 (vigência) | 61,05 | 44,32 | -16,73 | 15,93 | -1,05 | 0,293 | 0,2786 | 14,0% | 24,89 | 18,43 | [Publicação DOU PAS CVM 19957](https://www.infomoney.com.br/onde-investir/cvm-encerra-processo-contra-binance-apos-acordo-de-r-96-milhoes/) |
+| **M-03** | Microestrutura / Tick Size | 2025-06-19 | 2025-06-27 | 2025-06-20 (anúncio) | 38,33 | 21,11 | -17,22 | 6,98 | -2,47 | 0,014 | 0,2637 | 13,5% | 27,76 | 21,77 | [Anúncio Tick Size Binance](https://data-api.binance.vision/api/v3/exchangeInfo?symbol=USDTBRL) |
+| **M-03** | Microestrutura / Tick Size | 2025-06-19 | 2025-06-27 | 2025-06-27 (vigência) | 39,92 | 16,00 | -23,92 | 5,55 | -4,31 | $1,6 \times 10^{-5}$ | 0,1990 | 9,0% | 31,10 | 19,88 | [Vigência 0,0001 BRL Binance](https://data-api.binance.vision/api/v3/exchangeInfo?symbol=USDTBRL) |
+| **M-04** | Adaptação de Liquidez | 2026-07-07 | 2026-07-07 | 2026-07-07 (vigência) | 70,95 | 60,44 | -10,51 | 28,55 | -0,37 | 0,713 | 0,4527 | 24,0% | 25,68 | 23,43 | [Parceria Foxbit-NovaDAX (Cointelegraph)](https://cointelegraph.com.br/news/novadax-strikes-partnership-to-migrate-clients-to-foxbit) |
 
 *Nota Metodológica:* E-03 é proposta não promulgada (sem data de vigência). E-06b possui vigência em 01/01/2027 (fora da amostra). Placebos sorteados de 1.068 dias úteis livres de eventos (`seed = 20261102`).
 

diff --git a/findings/F-008-foxbit-volume-jul-2026.md b/findings/F-008-foxbit-volume-jul-2026.md
@@ -11,7 +11,9 @@ checked_by: -
 On Foxbit, a Brazilian exchange, USDT/BRL volume went from 100–190 million USDT a month (Jan–Jun 2026) to
 0.9–1.1 billion a month (Jul–Oct 2026), right after the 23–24 Jun premium jump. The number of trades did not rise;
 the average trade grew about fivefold. The same months show no such rise on Mercado Bitcoin, and a much smaller
-one on Binance. P1-04 (M-04) matched this surge to the 7 Jul 2026 Foxbit–NovaDAX migration partnership and domestic order-book adaptation following Res. BCB 580 and Receita DeCripto IN RFB 2.291/2025.
+one on Binance. The surge coincides with Foxbit taking over clients of NovaDAX, which closed its Brazilian operations (M-04, announced
+7 Jul 2026), during a wider wave of exchange exits. A client migration would more naturally add trades than enlarge
+them, so M-04 does not obviously explain the pattern of bigger trades; the cause is open.
 
 ## Evidence
 Monthly traded volume (million USDT) and Foxbit trade counts, 2026:
@@ -35,13 +37,14 @@ Reproduce: `python scripts/p1_03_second_venue.py` (last printed table; data froz
 - Exchange-reported volume. A market-making programme, fee promotion, wash trading or a reporting change at Foxbit
   would look the same. Nothing here tells those apart from real new demand.
 - Timing alone is not a cause. "Large players moved to a domestic venue after the June notice" fits the
-  limits-to-arbitrage story and domestic order-book adaptation (M-04).
+  limits-to-arbitrage story, but so does a Foxbit-specific cause such as the NovaDAX client migration (M-04).
 - Mercado Bitcoin, the larger domestic venue in 2025, shows no rise, which argues for something Foxbit-specific.
 
 ## Used in deck
 Not used.
 
 ## History
+- 2026-11-02, agent for Renzo: M-04 wording "matched … adaptation following Res. BCB 580 and IN RFB 2.291" replaced by "coincides with"; the M-04 source names neither rule (docs/sources.md). Noted that a client migration fits "more trades" better than "bigger trades"
 - 2026-11-01, Felipe: P1-04 matched the surge to M-04 (7 Jul 2026 Foxbit–NovaDAX user-migration partnership following NovaDAX exit, Res. BCB 580 and IN RFB 2.291/2025 entry into force), consolidating domestic order-book liquidity and explaining the July volume rise.
 - 2026-10-31, agent for Renzo: news search (P2-05 S3) found no explanation. One unopened lead: a startupi.com.br
   article dated 10 Sep 2026 on a R$ 110 million investment in Foxbit, whose snippet mentions strengthening its OTC desk

diff --git a/docs/README.md b/docs/README.md
@@ -94,6 +94,7 @@ regime), a "solution" deliverable (a daily monitor), and a causal design the aca
 | 31 Oct | After the day-1 review (`review-2026-10-31.md`): keep the full plan, no tasks dropped; critical-path work first when tasks compete for a person | Renzo |
 | 1 Nov | _Pending (P2 gate):_ agentic A go/no-go (owner available? CLIs usable on Renzo's plans?); B done or manual screening | Team |
 | 2 Nov | Extension A may run on Renzo's existing CLI plans (Claude, ChatGPT, Gemini; no API spend). The go/no-go itself stays with the team at the gate | Renzo |
+| 2 Nov | Sources: a link enters `sources.md` only if it was opened and one line quoted (`prompt.md` §6). The five broken links (M-01–M-04, C-01) were replaced with opened sources; unsupported details removed (M-01 Brazil/CVM, M-02 DOU date, M-03 announcement date, M-04 Res. 580); market events are said to *coincide with* breaks, not explain them; the link check runs again before the freeze (P4-03) | Renzo |
 | 1 Nov | Economist gate calls (Felipe): (1) 23 Jun 2026 framed as empirically confirmed break across 3 venues coinciding with reported BCB supervisory ofício (ConJur, secondary; not a public DOU norm); (2) P2-03, P2-04, P3-01 report both the 20-day acute spike (24 Jun–21 Jul, ~109 bps) and the post-adaptation plateau (22 Jul–Oct, ~27 bps) separately; (3) P2-03 within-Brazil placebo dates (200 dates) serve as primary statistical p-value and P2-04 synthetic control (rank 1 of 6, or 1 of 7 if pre-period starts 1 Dec 2025 to include IDR) serves as cross-country counterfactual; (4) Foxbit 6x volume surge (F-008) included as order-book adaptation evidence alongside 7 Jul Foxbit-NovaDAX migration (M-04); (5) Depeg chapter (P3-04) uses SVB weekend chart + 11-event comparative case table rather than survival curves (since 11 < 12 pre-committed threshold). | Felipe |
 
 ## Opening briefing notes (30 Oct)

diff --git a/tasks/P2-03-event-studies.md b/tasks/P2-03-event-studies.md
@@ -35,6 +35,7 @@ The 23 Jun 2026 row is also the number the AI analysts (extension A) are compare
 - **How to resume:** Re-run `python scripts/p2_03_events.py`.
 
 ## Log
+- 2026-11-02, agent for Renzo (note for Felipe): P1-04 dates corrected: M-02 effective 13 Aug 2024 (the 20 Aug "DOU" date had no source); M-03 has no announcement date (N/A; the 19/20 Jun date had no source; effective 27 Jun 2025 confirmed in our data). Rows for M-02 "vigência 20 Aug" and M-03 "anúncio 20 Jun" (p = 0.014) rest on unsourced dates: please re-run P2-03 and update F-016 and the annex.
 - 2026-11-02, Felipe: Completed S1, S2, S3 in `scripts/p2_03_events.py`. Generated `results/tables/P2-03_event_table.csv`, `results/tables/P2-03_placebo_draws.csv`, `results/figures/P2-03_placebo_dist.png`, and `results/agentic/team_estimate.json`. Written `findings/F-016-event-studies-placebos.md`. Status -> review.
 - 2026-11-01, Felipe (Economist gate call): For the 23 Jun 2026 shock, report both the acute 20-day spike window ([+1, +20] trading days, 24 Jun – 21 Jul, ~109 bps) and the post-adaptation plateau ([+21, +60] trading days, 22 Jul – Oct, ~27 bps) separately. Within-Brazil placebo distribution (200 random dates) serves as primary statistical p-value. Event 23 Jun 2026 is framed as empirically confirmed break across 3 venues coinciding with reported BCB supervisory ofício (ConJur secondary source, not public DOU norm).
 - 2026-10-31, agent for Renzo (note from P2-02): the high regime after 23 Jun 2026 lasts about 20 PTAX days (24 Jun – 21 Jul; F-011), so the planned [+1, +20] window measures the spike almost exactly. The lasting effect is smaller (regime mean 9.3 → 26.8 bps after 22 Jul). Suggest reporting a later window too (e.g. [+21, +60]) as a pre-declared extra, decided before running.

diff --git a/tasks/P1-04-events-brazil.md b/tasks/P1-04-events-brazil.md
@@ -4,7 +4,7 @@ title: Verified list of Brazilian rule changes and events
 phase: P1
 status: review
 owner: Economist
-working: Renzo (review: source links)
+working: -
 due: 2026-10-31
 depends: -
 ---
@@ -38,6 +38,7 @@ primary source. It feeds the event studies, the break matching, and is the human
 - **How to resume:** inspect `data/processed/P1-04_events_brazil.csv` and `docs/sources.md`
 
 ## Log
+- 2026-11-02, agent for Renzo (review of source links, Renzo): 5 links failed. M-01, M-02 and M-04 (and the competition page C-01) returned 404; M-03 opened a generic page. Replaced with opened sources, one line quoted each (docs/sources.md). Removed details the sources do not support: M-01 withdrawal limits / CVM / Brazil; M-02 "DOU 20 Aug 2024" (effective date now 13 Aug); M-03 announcement date 19 Jun (no announcement found; the cut is in our data on 27 Jun 2025); M-04 Res. BCB 580 and IN RFB 2.291. E-05: added Cointelegraph Brasil (Brotto, 6 Jul: notice made public the next day) and Webitcoin (30 Jul: BCB's LAI answer); with ConJur these are two independent accounts. The rest of the P1-04 review (dates and sources of the E-rows) is still open; working back to -.
 - 2026-11-02, agent for Renzo: Renzo takes the review of the source links (5 broken links found; see docs/sources.md).
 - 2026-11-01, Felipe: S1–S5 completed (`status: review`). Wrote `data/processed/P1-04_events_brazil.csv` (13 rows: `E-01`, `E-01b`, `E-02`, `E-03`, `E-04`, `E-05`, `E-06a`, `E-06b`, `E-07`, `M-01`..`M-04`) and updated `docs/sources.md`. Unblocks `P2-02` S3 and `P2-03`.
 - 2026-11-01, Felipe: claimed P1-04 (S1–S4); launched regulatory-verifier subagents on E-01..E-07, the 23 Jun 2026 notice, and the July 2026 fade / blind break dates.

diff --git a/tasks/P2-02-blind-break-test.md b/tasks/P2-02-blind-break-test.md
@@ -68,6 +68,7 @@ means the algorithm is given no event dates, and every choice below is fixed bef
 - **How to resume:** `python scripts/p2_02_breaks.py`. On machines with `P1-02_premium_daily.csv`, it re-runs the full break detection, CIs, S3 matching, and updates `results/figures/P2-02_premium_breaks.png`.
 
 ## Log
+- 2026-11-02, agent for Renzo: S3 re-run after the P1-04 source fixes. Removed the date-keyed overrides (Break 3, July fade) and the hand-written labels/markers so every break follows the ±5-day rule and labels come from the event table. Main series: Breaks 1–4 coincide with M-01 (0d), M-02 (−5d, was 0d with the unsourced 20 Aug date), E-01b (−2d), E-05 (−1d); Break 5 unexplained. The committed table had come from an older script version (Coinbase break 1 19 Jul 2021 vs 1 Jun 2021 now and on 31 Oct). F-011 updated.
 - 2026-11-02, Felipe: S3 matching completed using P1-04 verified events + non-rules; results/tables/P2-02_breaks.csv updated; script handles both local full data and table-based matching; status -> review
 - 2026-10-31, agent for Renzo: S2 and S4 run (F-011): 24 Jun 2026 found blind (CI 18–30 Jun, +99.8 bps) in all three series; partial reversal from 22 Jul. Status → blocked (S3 needs P1-04)
 - 2026-10-31, agent for Renzo: S1 specification written and committed before any break-test run

diff --git a/tasks/P5-01-deck-v1.md b/tasks/P5-01-deck-v1.md
@@ -36,6 +36,7 @@ Full deck draft following `docs/02-dolar-cripto.md` §9 and the definition of do
 - **How to resume:** Verificar se houve alguma alteração de dados no freeze de P4-03 e prosseguir com a renderização em PDF via Pandoc/Marp/Typst.
 
 ## Log
+- 2026-11-02, agent for Renzo (note for Felipe): sources fixed (docs/sources.md). In the deck, market events M-01–M-04 coincide with breaks, they do not explain them; the July fade is unexplained (P2-02 re-run); the 23 Jun notice can now cite two independent accounts plus the BCB's LAI answer (E-05).
 - 2026-11-02, Felipe: Estruturadas as sub-tarefas S1 a S4; elaborada a versão integral de `deck/deck_v1_ptbr.md` com 12 slides contendo título direto, visual/layout com figura de 10s, tópicos quantitativos em pt-BR, notas do orador e rodapé de rastreabilidade para findings (`F-001` a `F-021`), scripts e fontes (`D-xx`, `E-xx`, `R-xx`, `L-xx`). S1, S2 e S3 concluídos. Status definido como `doing` aguardando freeze de P4-03 para PDF final.
 
 ## Result

diff --git a/tasks/P4-03-freeze.md b/tasks/P4-03-freeze.md
@@ -19,6 +19,8 @@ _Write the subtasks (S1, S2, ...) when the phase starts; see `docs/phases.md` an
 - [ ] Every finding used in the deck has status frozen
 - [ ] Git tag results-frozen on the commit
 - [ ] Decision log entry
+- [ ] Every link in `docs/sources.md` and the event tables opens and says what we cite (link check below; open by hand
+      anything that is not 200 and is not an API endpoint or a site that blocks scripts)
 
 ## Outputs
 - tag `results-frozen`
@@ -31,5 +33,6 @@ _Write the subtasks (S1, S2, ...) when the phase starts; see `docs/phases.md` an
 - **How to resume:** -
 
 ## Log
+- 2026-11-02, agent for Renzo: link-check criterion added (decision 2 Nov). Command: `grep -ohE 'https?://[^ )|`"<>,;]+' docs/sources.md data/processed/P1-0[46]_events_*.csv | sed 's/[.]$//' | sort -u | while read u; do echo "$(curl -s -o /dev/null -L --max-time 20 -A 'Mozilla/5.0' -w '%{http_code}' "$u") $u"; done | grep -v '^200'`
 
 ## Result
